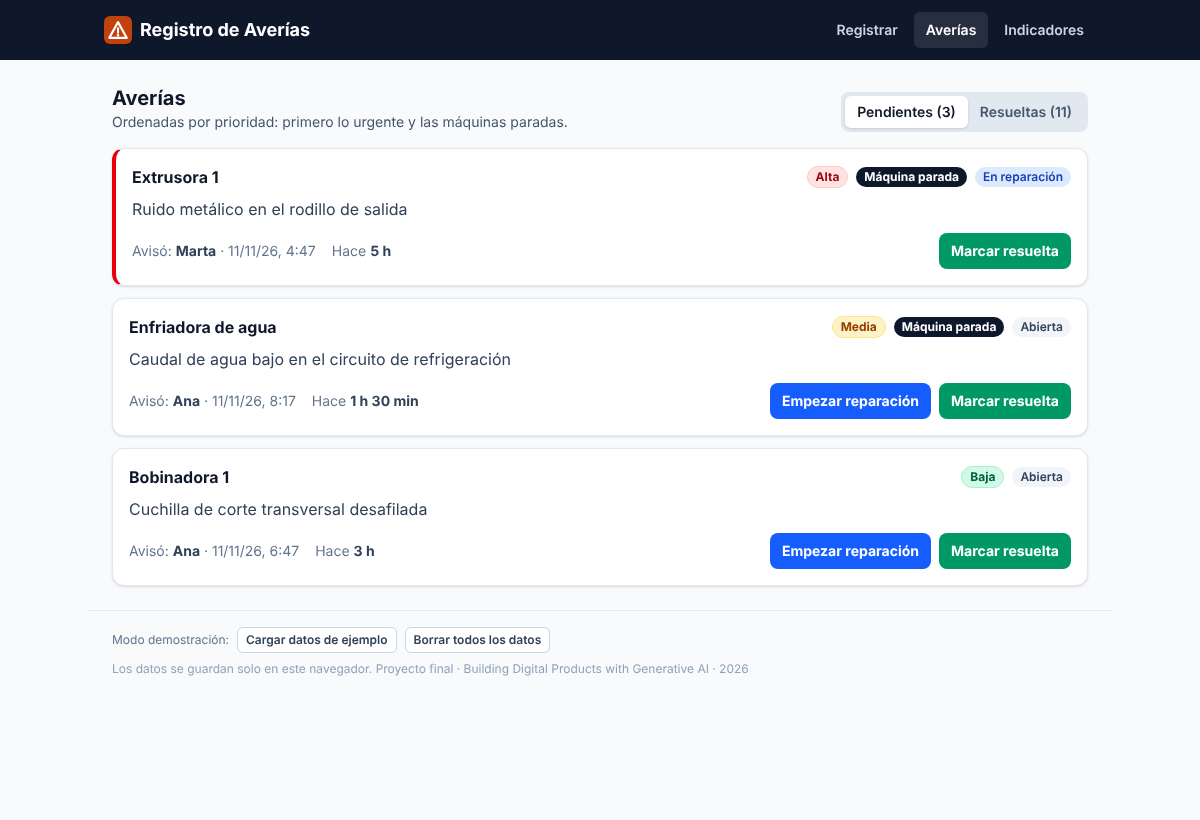
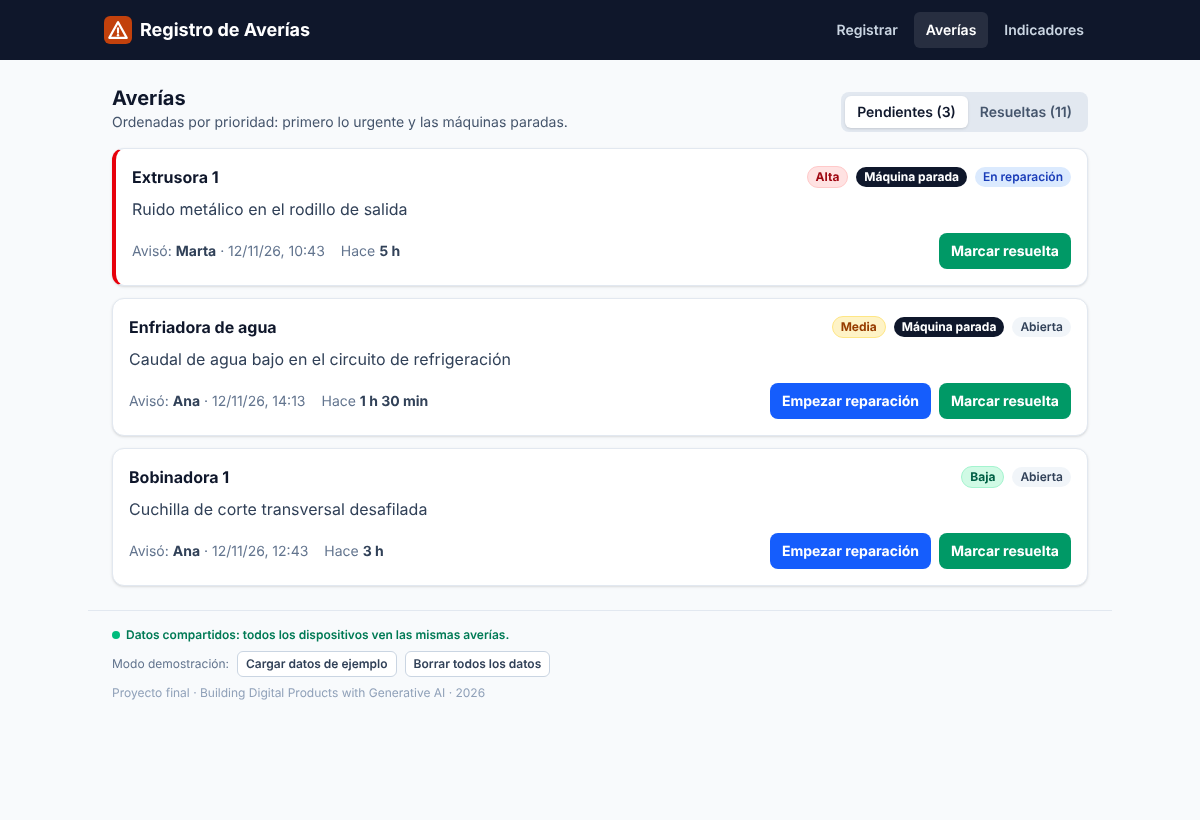
docs: document v0.2.0 in readme, changelog, claude.md and ai workflow

diff --git a/README.md b/README.md
@@ -1,8 +1,10 @@
 # Registro de Averías · Breakdown Log
 
-**Operators report a machine breakdown in 20 seconds, maintenance sees it sorted by urgency, and the maintenance manager knows which machine stops the most.**
+**Operators report a machine breakdown in 20 seconds from their phone, maintenance sees it on any device sorted by urgency, and the maintenance manager knows which machine stops the most.**
 
 Final project of the course *Building Digital Products with Generative AI* (2026) · Jorge Iglesias Alsina.
+
+**Live app:** https://breakdown-log-alpha.vercel.app · **Version:** 0.2.0
 
 ![Indicators per machine](docs/screenshots/indicators.png)
 
@@ -17,35 +19,38 @@ Final project of the course *Building Digital Products with Generative AI* (2026
 | User | What they need |
 | --- | --- |
 | Line operator | Report a breakdown quickly, from a phone or a tablet, without looking for anyone |
-| Maintenance technician | Know what to attend to first |
-| Maintenance manager | See which machines stop the most and how long it takes to fix them |
+| Maintenance technician | Know what to attend to first, on whatever device they have at hand |
+| Maintenance manager | See which machines stop the most, how long repairs take, and take the data to Excel |
 
-**Minimum moment of value.** The operator reports the breakdown and the technician has it at the top of their list, sorted by priority, without a single phone call.
+**Minimum moment of value.** The operator reports the breakdown on their phone and the technician has it at the top of their list on their PC, sorted by priority, without a single phone call.
 
 > **Language choice.** The user interface is in Spanish because the end users are Spanish plant workers. Code, commits and documentation are in English.
 
 ## 2. Features
 
-MVP user stories, all implemented and tested:
-
-| # | User story | Status |
+| # | User story | Version |
 | --- | --- | --- |
-| US-01 | As a **line operator**, I want to report a breakdown (machine, description, priority and whether the machine is stopped), so that maintenance knows about it immediately without paper. | ✅ MVP |
-| US-02 | As a **maintenance technician**, I want to see the pending breakdowns sorted by priority and change their status (open → in progress → resolved), so that I know what to attend to first. | ✅ MVP |
-| US-03 | As the **maintenance manager**, I want to see per machine the number of breakdowns, the downtime hours and the MTTR, so that I can decide where to invest in preventive maintenance. | ✅ MVP |
+| US-01 | As a **line operator**, I want to report a breakdown (machine, description, priority and whether the machine is stopped), so that maintenance knows about it immediately without paper. | ✅ 0.1.0 |
+| US-02 | As a **maintenance technician**, I want to see the pending breakdowns sorted by priority and change their status (open → in progress → resolved), so that I know what to attend to first. | ✅ 0.1.0 |
+| US-03 | As the **maintenance manager**, I want to see per machine the number of breakdowns, the downtime hours and the MTTR, so that I can decide where to invest in preventive maintenance. | ✅ 0.1.0 |
+| US-04 | As the **maintenance manager**, I want to export all breakdowns to a file I can open in Excel, so that I can analyse them and add them to my monthly report. | ✅ 0.2.0 |
+| US-05 | As a **technician**, I want to see the breakdowns reported from any device, so that an operator's report on their phone reaches me on my PC. | ✅ 0.2.0 |
 
-**Backlog** (left out of the MVP on purpose): a shared database with users and login, CSV/Excel export, alerts to the technician (email or notification), MTBF and OEE indicators, and a screen to manage machines.
+**Backlog** (left out on purpose): users with login and roles, alerts to the technician (email or notification), MTBF and OEE indicators, and a screen to manage machines.
 
 **What each screen does**
 
-- **Registrar · Report** (`/`): mobile-first form. Validates the fields with messages in Spanish and remembers the operator's name for the next report.
-- **Averías · Breakdowns** (`/breakdowns`): pending breakdowns sorted by priority, then stopped machines first, then the oldest. Each one can be moved to *In progress* or *Resolved*. A history tab lists the resolved ones.
-- **Indicadores · Indicators** (`/indicators`): total breakdowns, pending, downtime hours and MTTR of the plant, plus a table per machine sorted by downtime.
+- **Registrar · Report** (`/`): mobile-first form with validation messages in Spanish. It remembers the operator's name for the next report.
+- **Averías · Breakdowns** (`/breakdowns`): pending breakdowns sorted by priority, then stopped machines, then the oldest. Each one can be moved to *In progress* or *Resolved*, and a history tab lists the resolved ones.
+- **Indicadores · Indicators** (`/indicators`): total breakdowns, pending, downtime hours and MTTR of the plant, a table per machine sorted by downtime, and **Exportar a Excel (CSV)**.
+- **Footer:** shows where the data lives. *Datos compartidos* (green) means every device sees the same breakdowns. *Datos guardados solo en este navegador* (amber) means there is no database connected.
 
 **How the indicators are calculated**
 
 - **Downtime hours.** Only breakdowns that stop the machine count, from the report to the resolution. While still open, they count until now.
 - **MTTR** (*Mean Time To Repair*). Average time from the report to the resolution of the resolved breakdowns.
+
+**The CSV export** opens directly in Excel set to Spanish: it uses `;` as separator, a decimal comma, dates as `dd/mm/yyyy hh:mm` and UTF-8 with BOM, so accents display correctly.
 
 | Report (mobile) | Pending breakdowns (mobile) |
 | --- | --- |
@@ -55,18 +60,18 @@ MVP user stories, all implemented and tested:
 
 **Live app:** https://breakdown-log-alpha.vercel.app
 
-There is a **demo mode** in the page footer: *Cargar datos de ejemplo* (load sample data) fills the app with 14 realistic breakdowns from a plastic film plant, and *Borrar todos los datos* (delete all data) empties it.
+A **demo mode** in the page footer loads 14 realistic breakdowns from a plastic film plant (*Cargar datos de ejemplo*) or deletes everything (*Borrar todos los datos*). Both ask for a second click to confirm.
 
 ### Requirements
 
 - Node.js 20 or later, **or** Docker, **or** VS Code with the Dev Containers extension.
-- No environment variables are needed. `.env.example` documents the ones a future database will need.
+- Environment variables: **none to run it**. Shared storage needs the two variables in `.env.example`, which Vercel adds automatically (see below).
 
 ### Option A · Node.js
 
 ```bash
 npm install
-npm run dev        # http://localhost:5173
+npm run dev        # http://localhost:5173 (data stored in the browser)
 ```
 
 ### Option B · Docker
@@ -84,8 +89,8 @@ Open the folder in VS Code and choose **Reopen in Container**. The container com
 ### Tests and quality
 
 ```bash
-npm test           # 50 Vitest tests (domain, service, store, components and views)
-npm run lint       # type-check with vue-tsc
+npm test           # 95 Vitest tests: domain, API, storage, services, stores, components and views
+npm run lint       # type-check with vue-tsc (app + Vercel functions with Node ESM rules)
 npm run build      # production build to dist/
 ```
 
@@ -93,65 +98,108 @@ GitHub Actions (`.github/workflows/ci.yml`) runs all three on every push and pul
 
 ### Deploying on Vercel
 
-1. Vercel → **Add New → Project** → import this repository.
-2. Vercel detects Vite: build command `npm run build`, output `dist`, production branch `main` → **Deploy**.
-3. `vercel.json` sends every route to `index.html` (the app uses browser routing). `/api/health` is a function that answers `{"status":"ok"}`, for uptime monitoring with UptimeRobot.
+1. Vercel → **Add New → Project** → import this repository. Vercel detects Vite (`npm run build`, output `dist`, production branch `main`) → **Deploy**.
+2. **Shared storage (US-05).** In the project, open **Storage → Create Database → Upstash for Redis** (free plan) and connect it to the project. Vercel adds `KV_REST_API_URL` and `KV_REST_API_TOKEN`. Then **Redeploy**. The footer turns green: *Datos compartidos*.
+3. `vercel.json` sends every route except `/api/*` to `index.html` (the app uses browser routing).
+4. Functions:
+   - `/api/breakdowns`: the shared storage API.
+   - `/api/health`: answers `{"status":"ok"}`, for uptime monitoring with UptimeRobot.
+
+Without the database, `/api/breakdowns` answers `503` and the app keeps working with each browser's storage. Nothing breaks.
 
 ### Structure
 
 ```
 src/
   views/        pages: ReportView, BreakdownsView, IndicatorsView
-  components/   BreakdownForm, BreakdownCard, KpiTile, DemoBar
-  stores/       Pinia: breakdowns state
-  services/     data access: the ONLY layer that touches storage
-  domain/       pure, tested logic: validation, ordering, statuses, MTTR
+  components/   BreakdownForm, BreakdownCard, KpiTile, ExportButton, StorageStatus, DemoBar
+  stores/       Pinia: breakdowns state, storage mode, errors
+  services/     data access, the ONLY layer that touches storage: cloud API or browser
+  domain/       pure, tested logic: validation, ordering, statuses, MTTR, CSV
+  server/       API logic (Request -> Response), Redis and in-memory stores
   types/  data/ models, plant machines and sample data
-tests/          50 tests, mirroring src/
-api/health.ts   Vercel function for monitoring
+api/            Vercel functions: breakdowns.ts (shared storage), health.ts
+tests/          95 tests, mirroring src/
+.claude/        agents and skills used to build it
 docs/           AI workflow and screenshots
 ```
+
+**API** (`/api/breakdowns`, validated on the server with the same rules as the UI, max 30 writes per minute per client):
+
+| Method | What it does |
+| --- | --- |
+| `GET` | List all breakdowns |
+| `POST` | Report a breakdown; the server sets the id and the time |
+| `PATCH ?id=…` | Change the status, only allowed transitions |
+| `PUT` | Replace everything (demo mode) |
 
 ## 4. How it was built with AI
 
 I built it with **Claude** (Anthropic) as the agent, following the course workflow: *requirement → prompt → plan → execution and test → commit*.
 
-**My role:** defining the problem from my experience in a plant, choosing the idea and the scope, deciding what stayed out of the MVP and reviewing the result. **The agent's role:** proposing and writing the code, the tests and the configuration, and testing everything in a real browser before each merge.
+**My role:** defining the problem from my experience in a plant, choosing the idea and the scope, deciding what went into each version and what stayed in the backlog, and reviewing the result. **The agent's role:** proposing and writing the code, the tests and the configuration, reviewing it with its own agents and skills, and testing everything in a real browser before each merge.
 
 **Environment for the agent**
 
-- [`CLAUDE.md`](CLAUDE.md) with the problem, the user stories, the stack, the architecture, the definitions of the indicators and the working rules, such as *"implement only the user story requested"*, *"never change a test just to make it pass"* or *"UI in Spanish, code in English"*.
-- Branches: `main` (production) and `develop` (integration). Every story in its own `feature/…` branch, merged with `--no-ff`. Conventional Commits.
-- DevContainer, multi-stage Docker and CI on GitHub Actions from day one, before writing any feature.
+- [`CLAUDE.md`](CLAUDE.md): the problem, the user stories, the stack, the architecture, the definitions of the indicators, and working rules such as *"implement only the user story requested"* or *"never change a test just to make it pass"*.
+- **Agents** in [`.claude/agents/`](.claude/agents):
 
-**The cycle of each story** (details and full prompts in [`docs/ai-workflow.md`](docs/ai-workflow.md))
+  | Agent | What it does |
+  | --- | --- |
+  | `tester` | Writes tests for normal, edge and error cases |
+  | `code-reviewer` | Read-only review against the CLAUDE.md rules, with a verdict |
+  | `docs-writer` | Keeps README, CHANGELOG and the AI workflow in sync |
+
+- **Skills** in [`.claude/skills/`](.claude/skills):
+
+  | Skill | What it does |
+  | --- | --- |
+  | `/review` | Lint + tests + build + code review |
+  | `/smoke-test` | The 3 main flows in a real browser, mobile and desktop |
+  | `/release` | Checks, changelog, version and tag, with my approval |
+
+- **Branches:** `main` (production) and `develop` (integration), one `feature/…` branch per story merged with `--no-ff`, and Conventional Commits.
+- DevContainer, multi-stage Docker and CI on GitHub Actions from day one.
+
+**The cycle of each story** (details and all prompts in [`docs/ai-workflow.md`](docs/ai-workflow.md))
 
 1. A prompt with the story and its acceptance criteria, on a `feature/` branch created from `develop`.
-2. The agent implements it and writes tests for normal cases, edge cases and errors.
-3. The whole suite, the type-check and the build are run.
-4. It is tested in a real browser with Playwright (mobile and desktop) and the screenshots are reviewed.
-5. Commit, merge into `develop`, and on to the next story.
+2. The agent implements it, and the `tester` agent writes the tests.
+3. `/review`: lint, the whole suite, build and the `code-reviewer` agent.
+4. `/smoke-test` in a real browser with Playwright, mobile and desktop.
+5. Merge into `develop`. When a version is complete: `/release` into `main`, and Vercel deploys it.
 
-**The US-02 prompt** (course template 4.1, adapted to the story):
+**The US-05 prompt** (course template 4.1, adapted to the story):
 
-> I want to build this feature: As a maintenance technician, I want to see the open breakdowns sorted by priority and change their status (open → in progress → resolved), so that I know what to attend to first. Acceptance criteria: high priority first, then stopped machines, then the oldest; a resolved breakdown cannot be reopened; a quick fix can go straight from open to resolved; every change is saved. Create a feature/breakdown-list branch from develop. Before writing any code, explain your plan and which files you will touch. Follow the conventions in CLAUDE.md and don't add anything that is not in the criteria.
+> I want to build this feature: As a technician, I want to see the breakdowns reported from any device, so that an operator's report on their phone reaches me on my PC. Acceptance criteria: a REST API in Vercel functions with Upstash Redis; every input validated on the server with the same rules as the UI; rate limiting on writes; if the database is not configured, the app keeps working with browser storage and says so; other devices' breakdowns appear without reloading. Create a feature/shared-storage branch from develop. Before writing any code, explain your plan and which files you will touch. Follow the conventions in CLAUDE.md and don't add anything that is not in the criteria.
 
 **What worked well**
 
-- **Separating the pure logic** (`src/domain/`) from the interface made it possible to test the business rules (priority order, status transitions, MTTR) with fast, deterministic tests: 50 tests in about 3 seconds.
-- **Visual review** caught what the tests missed. In US-02 the card of an urgent breakdown had a black border instead of just the red one, and it was fixed before the merge.
-- **Writing down the definitions** of "downtime" and "MTTR" in CLAUDE.md removed ambiguity: the agent and the tests use exactly the same formulas.
+- **Separating the pure logic** (`src/domain/`) from the interface: the same validation and status rules run in the browser and on the server, and are tested once.
+- **The `/review` skill caught real problems before merging:**
+  - In US-04, a **CSV injection** risk: a description starting with `=` would run as a formula in Excel. User text is now neutralised.
+  - In US-05, a component importing from the service layer (against the CLAUDE.md rules), and some unclear validation code.
+- **Testing like a user caught what the tests could not see:**
+  - In 0.1.0, a visual bug.
+  - Most importantly, that **data did not reach other devices**. That became US-05.
 
 **What was hard or did not go as expected**
 
-- **The data lives in a single browser.** Testing with two different browsers made it clear: what the operator reports on their phone **does not appear on the technician's PC**. The MVP works as a *shared terminal* (a tablet in the workshop or on the line), but the full value needs a shared database. The `services/` layer is isolated precisely so that `localStorage` can be replaced by an API without touching views or stores.
+- **Data per browser in 0.1.0.** Testing with two browsers showed that a report on the phone did not appear on the PC, which breaks the main promise of the product. v0.2.0 fixes it with a shared database. It was tested end to end with **two separate browsers** against the real API code (with an in-memory store): report on the "phone" → visible on the "PC" → status changed on the PC → visible on the phone.
+- **Vercel functions run as Node ESM**, which needs `.js` extensions in relative imports. A dedicated `tsconfig.api.json` with Node rules now catches it in `npm run lint`, before deploying.
 - **Docker and the DevContainer could not be run** in the agent's environment, which had no access to Docker Hub. The files follow the structure seen in the course, but they still have to be run on a computer with Docker.
-- **The demo needed realistic data.** With an empty app the indicators show nothing, so a sample data loader was added, with tests that check its dates are consistent.
 
 ## 5. Status and next steps
 
-**Status: MVP v0.1.0 complete.** The 3 stories work on mobile and desktop, with 50 passing tests, a clean type-check and build, and the Vercel, Docker, DevContainer and CI configuration ready.
+**Status: v0.2.0.** The 5 stories work on mobile and desktop, with 95 passing tests, a clean type-check and build, CI on every push, and the app live on Vercel. Shared storage works as soon as the Upstash database is connected in Vercel. Until then, each browser keeps its own data.
 
-**What it does not do yet:** share data between devices, identify users, alert the technician or manage machines (they are listed in `src/data/machines.ts`).
+**Known limitations**
 
-**Natural next step (v0.2.0):** a **shared database** (Vercel Postgres or Supabase) through functions in `/api`. That way the operator's report really reaches the technician on another device, which is the main promise of the product. After that: login by role (operator, technician, manager), CSV/Excel export and the MTBF and OEE indicators.
+- **There is no login yet:** anyone with the link can report breakdowns or use the demo mode to replace the data. Rate limiting reduces abuse, but real use needs users and roles.
+- The machines of the plant are fixed in `src/data/machines.ts`.
+
+**Next steps (v0.3.0)**
+
+1. **Login by role.** Operators report, technicians change statuses, only the manager exports or deletes.
+2. **Alerts to the technician** when a high-priority breakdown is reported.
+3. **MTBF and OEE indicators**, and a **machine management** screen.

diff --git a/docs/ai-workflow.md b/docs/ai-workflow.md
@@ -1,4 +1,4 @@
-# AI workflow: from idea to MVP
+# AI workflow: from idea to MVP and v0.2.0
 
 How *Registro de Averías* (Breakdown Log) was built with an AI agent (Claude), following the course workflow (*Development workflow with AI agents*): set up the project (steps 3.1–3.3) and repeat one cycle per user story (steps 4.1–4.4).
 
@@ -88,8 +88,63 @@ git push origin main --tags
 
 Then, in Vercel: Add New → Project → import the repository (Vite, output `dist`, production branch `main`) → Deploy. And an UptimeRobot monitor on `/api/health`.
 
-## 4. Lessons learned
+## 4. Version 0.2.0: improving with agents and skills
+
+After publishing the MVP, I asked to make the project as good as possible before the presentation. The agent compared it with the final project brief (module 7) and proposed three improvements:
+
+1. **Agents and skills** were missing. The brief asks for them in section 4 of the README.
+2. **An item from the backlog** (CSV export), to show the continuous improvement cycle of module 6.
+3. **The main limitation of the MVP**: data not shared between devices.
+
+I chose all three.
+
+### Agents and skills (`chore/agents-skills`)
+
+Created in `.claude/` and listed in CLAUDE.md with **when** to use each one:
+
+| Type | Name | Purpose |
+| --- | --- | --- |
+| Agent | `tester` | Tests for normal, edge and error cases |
+| Agent | `code-reviewer` | Read-only review against the CLAUDE.md rules, with a verdict |
+| Agent | `docs-writer` | Keeps the documentation in sync |
+| Skill | `/review` | Lint + tests + build + code review |
+| Skill | `/smoke-test` | The main flows in a real browser |
+| Skill | `/release` | Release checklist, waiting for my approval |
+
+They were then used in the two cycles below.
+
+### US-04 · Export to CSV (`feature/csv-export`)
+
+> I want to build this feature: As the maintenance manager, I want to export all breakdowns to a file I can open in Excel, so that I can analyse them and add them to my monthly report. Acceptance criteria: the file opens correctly in Excel in Spanish (";" separator, decimal comma, accents); one row per breakdown with machine, area, priority, status, dates, downtime and time to resolve; the button is disabled when there is nothing to export; the file name includes the date. Create a feature/csv-export branch from develop. Before writing any code, explain your plan…
+
+- **Tests:** 9 new tests (headers, Spanish labels, empty cells, escaping, unknown machines, file name, button).
+- **Browser test:** downloaded the file and read it back as Excel would: 14 rows, accents correct.
+- **`/review` found a security problem:** a description starting with `=` would be executed by Excel as a formula (CSV injection). Fixed in its own commit (`fix(export): …`), with a test.
+
+### US-05 · Shared storage (`feature/shared-storage`)
+
+> I want to build this feature: As a technician, I want to see the breakdowns reported from any device, so that an operator's report on their phone reaches me on my PC. Acceptance criteria: a REST API in Vercel functions with Upstash Redis; every input validated on the server with the same rules as the UI; rate limiting on writes; if the database is not configured, the app keeps working with browser storage and says so; other devices' breakdowns appear without reloading. Create a feature/shared-storage branch from develop. Before writing any code, explain your plan…
+
+Design decisions:
+
+- **The API logic is a pure `Request -> Response` function** (`src/server/breakdownsApi.ts`) with an injected store. It is tested with an in-memory store, and the Vercel function only connects it to Redis.
+- **Fallback instead of failure.** If `/api/breakdowns` does not answer with a list (no database, local development, network error), the service uses `localStorage`. The footer always says which mode is active, so publishing v0.2.0 cannot break the live app.
+- **Same rules on both sides.** The server validates with `src/domain/`, sets the id and the time itself, and only allows the valid status transitions.
+
+Results:
+
+- **Tests:** 36 new tests (API with every method and error, rate limiting, limits, Redis store with a fake client, cloud repository, fallback in 4 situations, store errors). 95 in total.
+- **End-to-end test with two separate browsers** against the real API code: report on the "phone" → visible on the "PC" → status changed on the PC → visible on the phone; demo data shared; without a database, the app switches to browser mode.
+- **`/review` found two issues:** a component importing a type from the service layer (against CLAUDE.md), and an unclear validation trick in the store. Both fixed before merging.
+- **A risk caught by tooling:** Vercel runs functions as Node ESM, where relative imports need `.js`. A `tsconfig.api.json` with Node rules makes `npm run lint` fail if that is wrong.
+
+### Release 0.2.0 (`/release`)
+
+Lint, 95 tests and build passing, no secrets in Git, CHANGELOG and version updated. Merged into `main` with my approval and tagged `v0.2.0`. On Vercel: connect *Upstash for Redis* in **Storage** and redeploy.
+
+## 5. Lessons learned
 
 1. **CLAUDE.md is half of the work.** The rules *"implement only the user story requested"* and *"never change a test just to make it pass"* kept the scope under control.
 2. **Tests do not replace looking at the app.** The border bug and the data-per-browser problem only appeared when testing like a user.
-3. **An honest MVP says what it does not do.** The most important limitation (data not shared between devices) is exactly the next step of the product.
+3. **An honest MVP says what it does not do.** The most important limitation of 0.1.0 (data not shared between devices) became the main story of 0.2.0.
+4. **A review step pays off.** `/review` found a security problem (CSV injection) that no test was looking for, because nobody had thought of it yet.

diff --git a/CLAUDE.md b/CLAUDE.md
@@ -9,7 +9,7 @@ Line operators report machine breakdowns from any device in seconds; maintenance
 
 It replaces breakdowns reported by word of mouth or on paper. Minimum moment of value: an operator reports a breakdown and the technician sees it in the list immediately.
 
-The MVP runs entirely in the browser: data is stored in `localStorage` behind a service layer, so a real REST API and database can replace it later without changing views or stores.
+Since v0.2.0 the data is shared between devices through a REST API (`/api/breakdowns`, Vercel functions + Upstash Redis). When the API is not available (local development, or no database connected) the service layer falls back to `localStorage`, so the app always works.
 
 ## User stories
 
@@ -35,6 +35,7 @@ Backlog: users with login and roles, notifications, MTBF and OEE indicators, mac
 - Vitest + Vue Test Utils (jsdom)
 - Docker + docker compose, DevContainer
 - Deploy: Vercel (static build to `dist/`, serverless functions in `/api`)
+- Shared storage: Upstash Redis (Vercel Marketplace), `@upstash/redis`
 
 ## Architecture
 
@@ -46,18 +47,21 @@ src/
   views/           # route-level pages
   components/      # presentational UI, props in / events out
   stores/          # Pinia stores (breakdowns)
-  services/        # data access - the ONLY layer that touches storage
-  domain/          # pure business logic (sorting, status transitions, metrics)
-  types/           # shared models: Breakdown, Machine, Priority, Status
-  data/            # static data: plant machines
+  services/        # data access - the ONLY layer that touches storage (cloud API or localStorage)
+  domain/          # pure business logic (validation, sorting, status transitions, metrics, CSV)
+  server/          # API logic as Request -> Response, Redis and in-memory stores
+  types/           # shared models: Breakdown, Machine, Priority, Status, StorageMode
+  data/            # static data: plant machines, sample data
 tests/             # Vitest specs, mirroring src/
-api/               # Vercel serverless functions (health check)
+api/               # Vercel functions: breakdowns (shared storage), health
 docs/              # project documentation (AI workflow, prompts)
 ```
 
 ### Rules
 
-- Data flow: `views -> stores -> services -> localStorage`. Components never import services.
+- Data flow: `views -> stores -> services -> API or localStorage`. Components never import services.
+- The server validates every input with the same `src/domain/` rules as the UI; never trust the client.
+- Files used by Vercel functions (`api/`, `src/server/`, and what they import) run as Node ESM: relative imports end in `.js`. `tsconfig.api.json` checks it.
 - Business logic (MTTR, downtime, sorting, allowed status changes) lives in `src/domain/` as pure, tested functions.
 - All shared models are typed in `src/types/`. No `any`.
 - Use `<script setup lang="ts">` and the Composition API.

diff --git a/CHANGELOG.md b/CHANGELOG.md
@@ -2,11 +2,24 @@
 
 Format based on [Keep a Changelog](https://keepachangelog.com) and [Semantic Versioning](https://semver.org).
 
-## [Unreleased]
+## [0.2.0] - 2026-11-12
+
+### Added
+
+- US-04: export all breakdowns to a CSV file that opens in Excel in Spanish (`;`, decimal comma, UTF-8 with BOM).
+- US-05: shared storage between devices with a REST API (`/api/breakdowns`, Vercel functions + Upstash Redis): server-side validation with the domain rules, rate limiting of writes, and automatic fallback to browser storage when no database is connected.
+- Storage indicator in the footer, error banner when saving fails, automatic refresh every 30 s to see other devices' breakdowns.
+- Agents (`tester`, `code-reviewer`, `docs-writer`) and skills (`/review`, `/smoke-test`, `/release`) in `.claude/`.
+- `tsconfig.api.json`: type-check of the Vercel functions with Node ESM rules.
+- 95 tests (from 50).
 
 ### Changed
 
 - Documentation (README, AI workflow, changelog) translated to English, the language of the course. The user interface stays in Spanish for Spanish plant workers.
+
+### Fixed
+
+- CSV injection: user text starting with `=`, `+`, `-` or `@` is neutralised in the export (found by `/review`).
 
 ## [0.1.0] - 2026-11-11 · MVP
 
